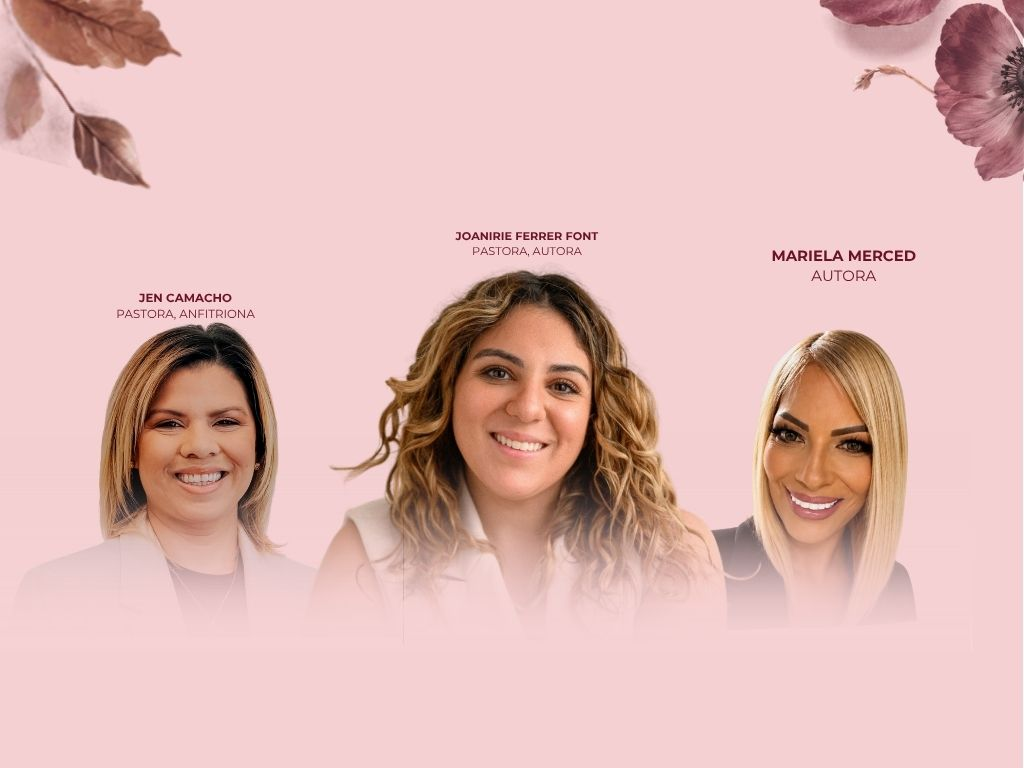
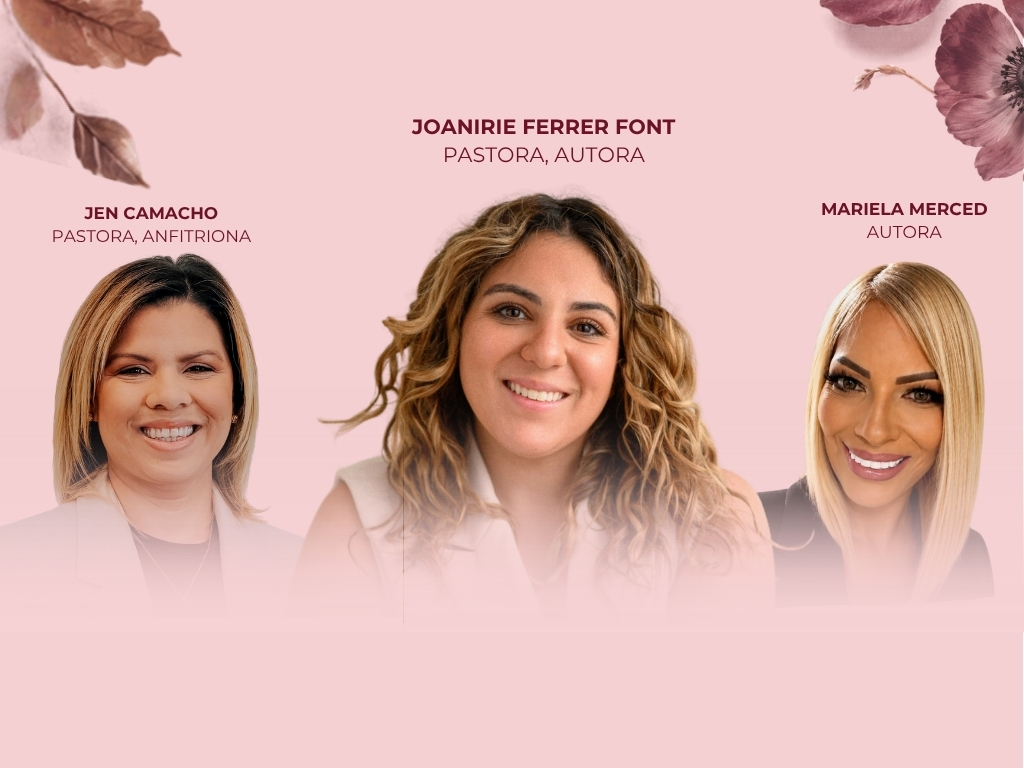
Swap event card photo for new version with larger names
Claude-Session: https://claude.ai/code/session_01Jzb2Xw3SNVPg1rfgeeCWpw

Changed region(s): [[0.0312, 0.25, 0.9688, 0.7812], [0.4062, 0.1562, 0.6562, 0.2188]]

diff --git a/index.html b/index.html
@@ -1229,14 +1229,14 @@
       width: calc(100% + 2 * var(--card-pad));
       max-width: none;
       height: auto;
-      aspect-ratio: 2.2 / 1;
+      aspect-ratio: 2 / 1;
       object-fit: cover;
-      object-position: center 38%;
+      object-position: center 22%;
       margin: 0 calc(-1 * var(--card-pad)) calc(-1 * clamp(40px, 8vw, 110px));
       -webkit-mask-image: linear-gradient(to bottom, #000 45%, transparent 100%);
       mask-image: linear-gradient(to bottom, #000 45%, transparent 100%);
     }
-    @media (max-width: 600px) { .event-special-photo { aspect-ratio: 4 / 3; object-position: center 20%; } }
+    @media (max-width: 600px) { .event-special-photo { aspect-ratio: 4 / 3; object-position: center 35%; } }
     .event-row-special .event-info,
     .event-row-special .event-tag-special { position: relative; }
     .event-special-label {
